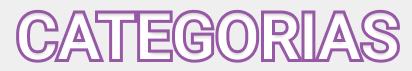
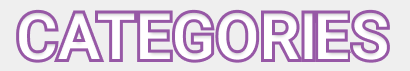
final commit

diff --git a/src/containers/Admin/EditProduct/index.js b/src/containers/Admin/EditProduct/index.js
@@ -10,7 +10,14 @@ import * as Yup from 'yup'
 
 import { ErrorMessage } from '../../../components'
 import api from '../../../services/api'
-import { Container, Label, Input, ButtonStyles, LabelUpload } from './styles'
+import {
+  Container,
+  Label,
+  Input,
+  ButtonStyles,
+  LabelUpload,
+  ContainerInput
+} from './styles'
 
 function EditProduct() {
   const [fileName, setFileName] = useState(null)
@@ -25,7 +32,8 @@ function EditProduct() {
   const schema = Yup.object().shape({
     name: Yup.string().required('Product name is a required field'),
     price: Yup.string().required('Product price is a required field'),
-    category: Yup.object().required('Choose a category')
+    category: Yup.object().required('Choose a category'),
+    offer: Yup.bool()
   })
   const {
     register,
@@ -42,6 +50,7 @@ function EditProduct() {
     productDataFormData.append('price', data.price)
     productDataFormData.append('categoryId', data.category.id)
     productDataFormData.append('file', data.file[0])
+    productDataFormData.append('offer', data.offer)
 
     await toast.promise(
       api.put(`products/${product.id}`, productDataFormData),
@@ -117,13 +126,22 @@ function EditProduct() {
                   getOptionLabel={cat => cat.name}
                   getOptionValue={cat => cat.id}
                   placeholder="Categories"
+                  defaultValue={product.category}
                 />
               )
             }}
           ></Controller>
           <ErrorMessage>{errors.category?.message}</ErrorMessage>
         </div>
-        <ButtonStyles>Add Product</ButtonStyles>
+        <ContainerInput>
+          <input
+            type="checkbox"
+            {...register('offer')}
+            defaultChecked={product.offer}
+          />
+          <Label>Product in offer?</Label>
+        </ContainerInput>
+        <ButtonStyles>Edit Product</ButtonStyles>
       </form>
     </Container>
   )

diff --git a/src/containers/Admin/Orders/order-status.js b/src/containers/Admin/Orders/order-status.js
@@ -1,33 +1,33 @@
 const status = [
   {
     id: 1,
-    label: 'Todos',
-    value: 'Todos'
+    label: 'All orders',
+    value: 'All orders'
   },
   {
     id: 2,
-    label: 'Pedido realizado',
-    value: 'Pedido realizado'
+    label: 'Confirmed',
+    value: 'Confirmed'
   },
   {
     id: 3,
-    label: 'Em preparação',
-    value: 'Em preparação'
+    label: 'Preparing',
+    value: 'Preparing'
   },
   {
     id: 4,
-    label: 'Pedido pronto',
-    value: 'Pedido pronto'
+    label: 'Ready to go',
+    value: 'Ready to go'
   },
   {
     id: 5,
-    label: 'Pedido á caminho',
-    value: 'Pedido á caminho'
+    label: 'On the way',
+    value: 'On the way'
   },
   {
     id: 6,
-    label: 'Pedido entregue',
-    value: 'Pedido entregue'
+    label: 'Delivered',
+    value: 'Delivered'
   }
 ]
 

diff --git a/src/components/CardProduct/styles.js b/src/components/CardProduct/styles.js
@@ -5,7 +5,7 @@ export const Container = styled.div`
   box-shadow: 0px 30px 60px rgba(57, 57, 57, 0.1);
   border-radius: 20px;
   display: flex;
-  gap: 12px;
+  gap: 10px;
   padding: 16px;
   width: max-content;
 
@@ -16,7 +16,8 @@ export const Container = styled.div`
   }
 `
 export const Image = styled.img`
-  width: 150px;
+  width: 100%;
+  max-width: 150px;
   border-radius: 10px;
 `
 export const ProductName = styled.p`

diff --git a/src/containers/Admin/Orders/row.js b/src/containers/Admin/Orders/row.js
@@ -54,7 +54,7 @@ function Row({ row, orders, setOrders }) {
         <TableCell>{row.date}</TableCell>
         <TableCell>
           <ReactSelectStyle
-            options={status.filter(sts => sts.value !== 'Todos')}
+            options={status.filter(sts => sts.value !== 'All orders')}
             menuPortalTarget={document.body}
             placeholder="Status"
             defaultValue={

diff --git a/src/containers/Products/index.js b/src/containers/Products/index.js
@@ -28,7 +28,7 @@ export function Products({ location: { state } }) {
     async function loadCategories() {
       const { data } = await api.get('categories')
 
-      const newCategories = [{ id: 0, name: 'Todas' }, ...data]
+      const newCategories = [{ id: 0, name: 'All' }, ...data]
       setCategories(newCategories)
     }
 

diff --git a/src/containers/Login/index.js b/src/containers/Login/index.js
@@ -93,7 +93,7 @@ export function Login() {
           </Button>
         </form>
         <SingInLink>
-          Não possui conta?{' '}
+          Does not have an account?{' '}
           <Link style={{ color: 'white' }} to="/register">
             Sign Up
           </Link>

diff --git a/src/containers/Admin/EditProduct/styles.js b/src/containers/Admin/EditProduct/styles.js
@@ -53,3 +53,14 @@ export const LabelUpload = styled.label`
     width: 1px;
   }
 `
+export const ContainerInput = styled.div`
+  display: flex;
+  align-items: baseline;
+  gap: 10px;
+
+  input {
+    width: 15px;
+    height: 15px;
+    cursor: pointer;
+  }
+`

diff --git a/src/components/Button/index.js b/src/components/Button/index.js
@@ -5,7 +5,6 @@ import PropTypes from 'prop-types'
 import { ContainerButton } from './styles'
 
 export function Button({ children, ...rest }) {
-  console.log(rest)
   return <ContainerButton {...rest}>{children}</ContainerButton>
 }
 

diff --git a/src/containers/Products/styles.js b/src/containers/Products/styles.js
@@ -11,7 +11,7 @@ export const ProductsImg = styled.img`
 export const CategoriesMenu = styled.div`
   display: flex;
   justify-content: center;
-  gap: 50px;
+  gap: 5%;
   margin-top: 20px;
 `
 
